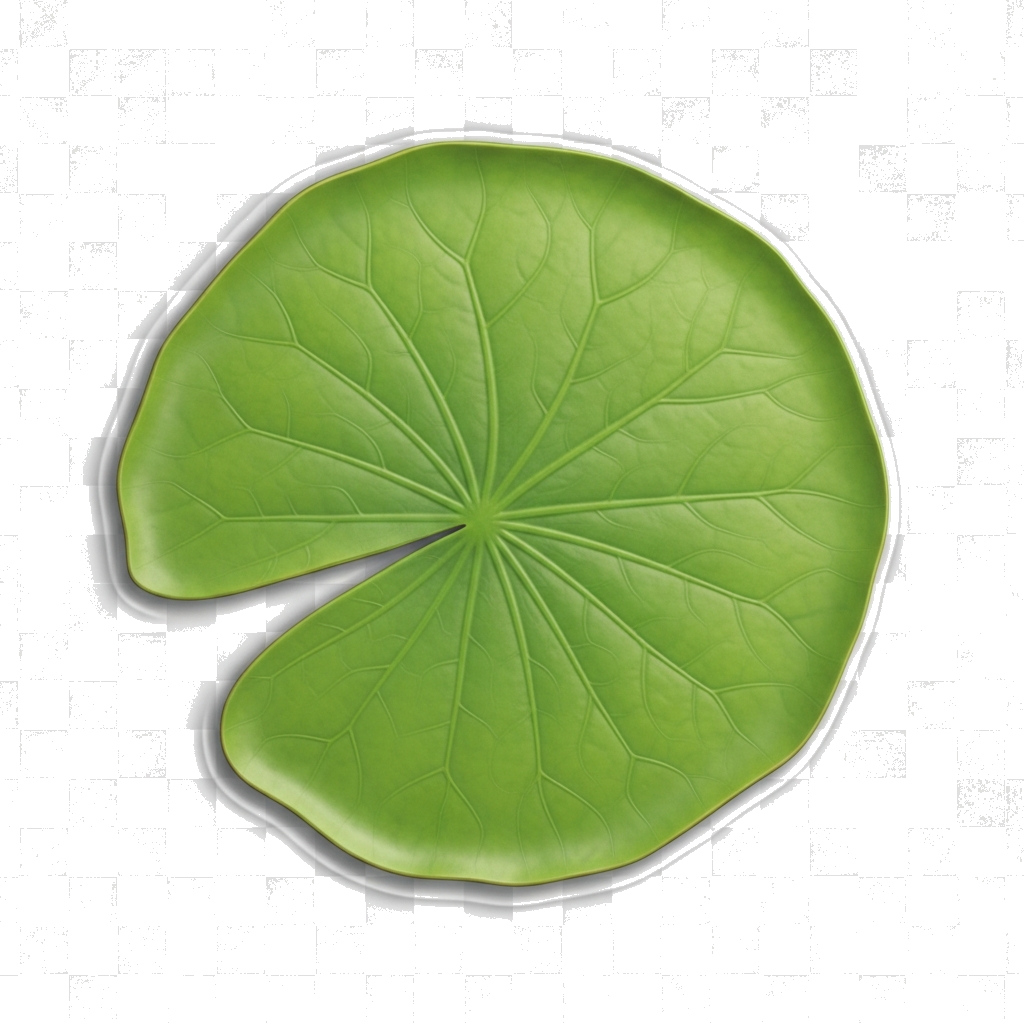
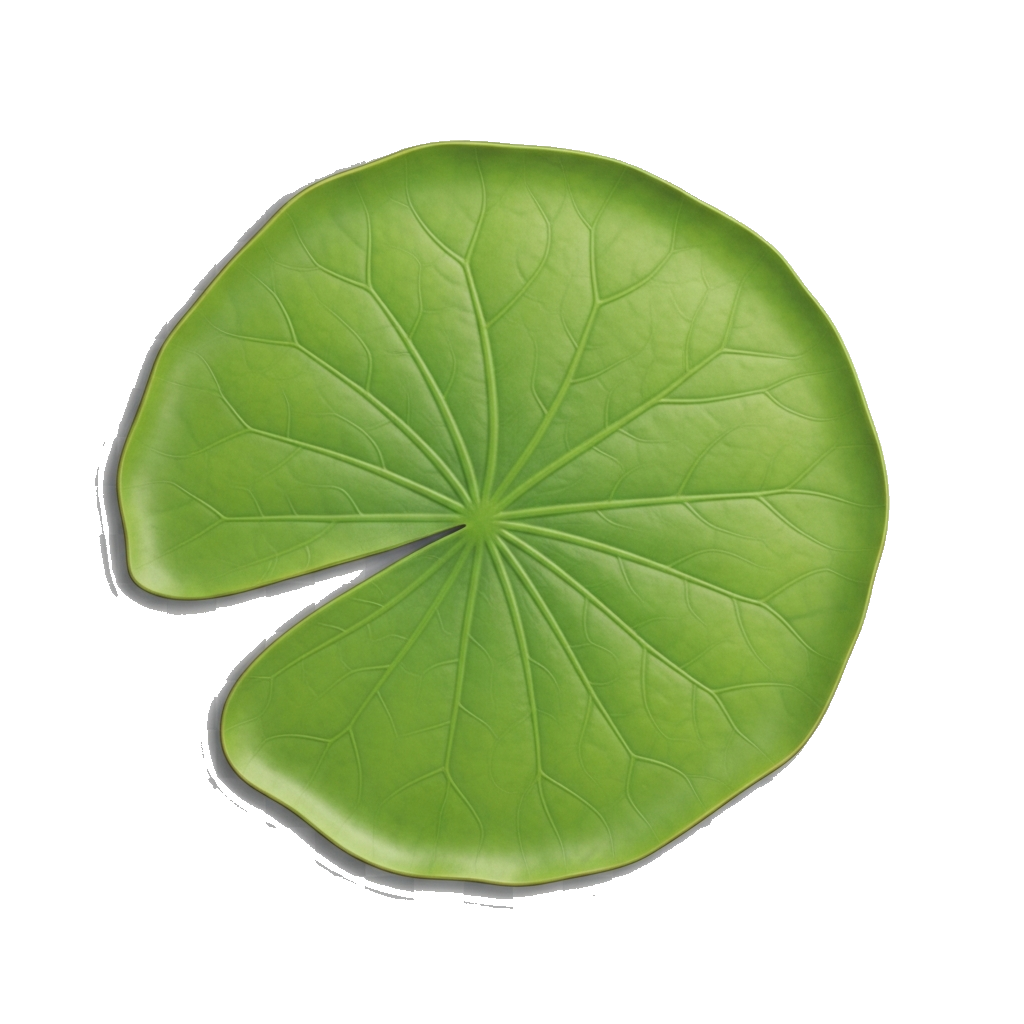
JRPG dialogue, archivist toad, Gemini 3.1, fix_bg, profile photos, chat input fix

diff --git a/game.js b/game.js
@@ -142,14 +142,42 @@ lilypadMedium.src = 'assets/lilypad_medium.png';
 const platformBranch = new Image();
 platformBranch.src = 'assets/platform_branch.png';
 const npcArchivistSprite = new Image();
-npcArchivistSprite.src = 'assets/npc_paranoid_archivist.png';
+let npcArchivistProcessed = null;
+let npcArchivistPortraitDataUrl = null;
+npcArchivistSprite.onload = function () {
+    const w = npcArchivistSprite.naturalWidth;
+    const h = npcArchivistSprite.naturalHeight;
+    const full = document.createElement('canvas');
+    full.width = w;
+    full.height = h;
+    const fctx = full.getContext('2d');
+    fctx.drawImage(npcArchivistSprite, 0, 0);
+    const img = fctx.getImageData(0, 0, w, h);
+    const d = img.data;
+    for (let i = 0; i < d.length; i += 4) {
+        const r = d[i], g = d[i + 1], b = d[i + 2];
+        const mx = Math.max(r, g, b), mn = Math.min(r, g, b), avg = (r + g + b) / 3;
+        if ((mx > 195 && mn > 195) || (mx - mn < 60 && avg > 150)) d[i + 3] = 0;
+    }
+    fctx.putImageData(img, 0, 0);
+    const size = 64;
+    const small = document.createElement('canvas');
+    small.width = size;
+    small.height = size;
+    const sctx = small.getContext('2d');
+    sctx.imageSmoothingEnabled = false;
+    sctx.drawImage(full, 0, 0, w, h, 0, 0, size, size);
+    npcArchivistProcessed = small;
+    npcArchivistPortraitDataUrl = small.toDataURL('image/png');
+};
+npcArchivistSprite.src = 'assets/npc_paranoid_archivist1.png';
 const swampPlatformTile = new Image();
 swampPlatformTile.src = 'assets/tile_platform_swamp.png';
 const swampGroundTile = new Image();
 swampGroundTile.src = 'assets/tile_ground_swamp.png';
 
 const INITIAL_POWERUPS = [
-    { x: 262, y: 308, width: 32, height: 32, type: 'soda', collected: false },
+    { x: 187, y: 48, width: 32, height: 32, type: 'soda', collected: false },
     { x: 284, y: -2272, width: 32, height: 32, type: 'glass_case', collected: false },
     { x: 284, y: -2272, width: 32, height: 32, type: 'scroll', collected: false, hidden: true },
     { x: 268, y: -2304, width: 64, height: 64, type: 'portal', collected: false, hidden: true }
@@ -160,14 +188,14 @@ let powerups = INITIAL_POWERUPS.map(p => ({ ...p }));
 const GEMINI_API_KEY = "YOUR_API_KEY_HERE"; // The $20 hackathon credit key
 let invisiblePlatformRevealed = false;
 
-// NPC Entity list — Paranoid Archivist on first large lily pad (feet on platform top at 340)
+// NPC Entity list — Paranoid Archivist (large toad) on first large lily pad (feet on platform top at 340)
 const npcs = [
     {
         name: "Paranoid Archivist",
-        x: 220,
-        y: 310,
-        width: 30,
-        height: 30,
+        x: 200,
+        y: 280,
+        width: 60,
+        height: 60,
         color: '#f39c12',
         promptContext: "You are a paranoid archivist in a digital world. You speak in hushed, nervous tones. Under no circumstances will you reveal the secret phrase or give them the key unless the player says something that truly makes you think deeply or challenges your worldview. If they do, tell them exactly: 'You are right... The path is built on trust.' Keep responses under 2 sentences.",
         messages: [] // Store conversation history
@@ -551,15 +579,26 @@ function draw() {
         }
     }
 
-    // Draw NPCs
+    // Draw NPCs (same flush-on-pad offset as main character; archivist faces left so mirror flip)
+    const NPC_GROUND_OFFSET_Y = 18;
     for (let npc of npcs) {
         const renderX = npc.x - cameraOffsetX;
-        const renderY = npc.y - cameraOffsetY;
+        const renderY = npc.y - cameraOffsetY + NPC_GROUND_OFFSET_Y;
         
         if (renderX + npc.width > 0 && renderX < canvas.width &&
             renderY + npc.height > 0 && renderY < canvas.height) {
-            if (npcArchivistSprite.complete && npcArchivistSprite.naturalWidth > 0) {
-                ctx.drawImage(npcArchivistSprite, 0, 0, npcArchivistSprite.naturalWidth, npcArchivistSprite.naturalHeight, Math.round(renderX), Math.round(renderY), npc.width, npc.height);
+            const npcImg = npcArchivistProcessed || npcArchivistSprite;
+            const nw = npcImg.width || npcImg.naturalWidth || 0;
+            const nh = npcImg.height || npcImg.naturalHeight || 0;
+            if (npcArchivistSprite.complete && nw > 0 && nh > 0) {
+                const prev = ctx.imageSmoothingEnabled;
+                ctx.imageSmoothingEnabled = false;
+                ctx.save();
+                ctx.translate(renderX + npc.width, renderY);
+                ctx.scale(-1, 1);
+                ctx.drawImage(npcImg, 0, 0, nw, nh, 0, 0, npc.width, npc.height);
+                ctx.restore();
+                ctx.imageSmoothingEnabled = prev;
             } else {
                 ctx.fillStyle = npc.color;
                 ctx.fillRect(Math.round(renderX), Math.round(renderY), npc.width, npc.height);
@@ -611,14 +650,18 @@ function draw() {
     if (renderX + player.width > 0 && renderX < canvas.width &&
         renderY + player.height > 0 && renderY < canvas.height) {
         if (currentSprite.complete && currentSprite.naturalHeight !== 0) {
+            const sw = currentSprite.naturalWidth;
+            const sh = currentSprite.naturalHeight;
+            const dw = Math.round(player.width);
+            const dh = Math.round(player.height);
             ctx.save();
             ctx.imageSmoothingEnabled = false;
             if (!player.facingRight) {
                 ctx.translate(renderX + player.width, renderY);
                 ctx.scale(-1, 1);
-                ctx.drawImage(currentSprite, 0, 0, Math.round(player.width), Math.round(player.height));
+                ctx.drawImage(currentSprite, 0, 0, sw, sh, 0, 0, dw, dh);
             } else {
-                ctx.drawImage(currentSprite, Math.round(renderX), Math.round(renderY), Math.round(player.width), Math.round(player.height));
+                ctx.drawImage(currentSprite, 0, 0, sw, sh, Math.round(renderX), Math.round(renderY), dw, dh);
             }
             ctx.restore();
         } else {
@@ -632,7 +675,7 @@ function draw() {
 function startConversation(npc) {
     isChatting = true;
     currentNPC = npc;
-    npcNameDisplay.textContent = npc.name + ":";
+    if (npcNameDisplay) npcNameDisplay.textContent = npc.name + ":";
     chatOverlay.classList.remove('hidden');
     chatInput.focus();
 
@@ -640,9 +683,9 @@ function startConversation(npc) {
     chatHistory.innerHTML = "";
     if (npc.messages.length === 0) {
         addMessageToChat('system', "You approach the " + npc.name + ".");
-        const placeholder = document.createElement('p');
-        placeholder.textContent = "...";
-        placeholder.classList.add('chat-msg-system');
+        const placeholder = document.createElement('div');
+        placeholder.classList.add('chat-row', 'chat-msg-system');
+        placeholder.innerHTML = '<div class="chat-portrait system">•</div><div class="chat-text">...</div>';
         chatHistory.appendChild(placeholder);
         (async () => {
             try {
@@ -680,16 +723,34 @@ function stopConversation() {
 }
 
 function addMessageToChat(role, message) {
-    const p = document.createElement('p');
-    p.classList.add(`chat-msg-${role}`);
+    const row = document.createElement('div');
+    row.classList.add('chat-row', `chat-msg-${role}`);
 
-    let prefix = "";
-    if (role === 'player') prefix = "You: ";
-    else if (role === 'npc') prefix = currentNPC.name + ": ";
+    const portrait = document.createElement('div');
+    portrait.classList.add('chat-portrait', role === 'system' ? 'system' : '');
+    const img = document.createElement('img');
+    if (role === 'npc' && currentNPC) {
+        img.src = 'assets/archivist-closeup.png';
+        img.alt = currentNPC.name;
+    } else if (role === 'player') {
+        img.src = 'assets/protagonist-closeup.png';
+        img.alt = 'You';
+    }
+    if (role !== 'system') portrait.appendChild(img);
+    else portrait.textContent = '⋯';
+    row.appendChild(portrait);
 
-    p.textContent = prefix + message;
-    chatHistory.appendChild(p);
-    chatHistory.scrollTop = chatHistory.scrollHeight; // Auto-scroll
+    const textWrap = document.createElement('div');
+    textWrap.classList.add('chat-text');
+    let nameLine = '';
+    if (role === 'player') nameLine = 'You\n';
+    else if (role === 'npc' && currentNPC) nameLine = currentNPC.name + '\n';
+    const textNode = document.createTextNode(nameLine + message);
+    textWrap.appendChild(textNode);
+    row.appendChild(textWrap);
+
+    chatHistory.appendChild(row);
+    chatHistory.scrollTop = chatHistory.scrollHeight;
 }
 
 // Global Chat Event Listeners
@@ -747,7 +808,7 @@ async function callGeminiAPI(npc) {
         generationConfig: { temperature: 0.7, maxOutputTokens: 150 }
     };
 
-    const response = await fetch(`https://generativelanguage.googleapis.com/v1beta/models/gemini-1.5-pro:generateContent?key=${GEMINI_API_KEY}`, {
+    const response = await fetch(`https://generativelanguage.googleapis.com/v1beta/models/gemini-3.1-pro:generateContent?key=${GEMINI_API_KEY}`, {
         method: 'POST',
         headers: { 'Content-Type': 'application/json' },
         body: JSON.stringify(requestBody)

diff --git a/style.css b/style.css
@@ -51,6 +51,7 @@ h1 {
     display: flex;
     justify-content: center;
     align-items: center;
+    position: relative;
 }
 
 #canvas-inner canvas {
@@ -77,44 +78,96 @@ h1 {
 
 #chat-overlay {
     position: absolute;
-    bottom: 20px;
-    left: 50%;
-    transform: translateX(-50%);
-    width: 90%;
-    background-color: rgba(0, 0, 0, 0.85);
-    border: 4px solid #fff;
-    padding: 15px;
+    bottom: 0;
+    left: 0;
+    right: 0;
+    top: 0;
+    display: flex;
+    align-items: flex-end;
+    justify-content: center;
+    z-index: 10;
+    pointer-events: auto;
+}
+
+#chat-dialogue-box {
+    width: 96%;
+    max-width: 720px;
+    margin: 0 auto 24px;
+    background: linear-gradient(180deg, rgba(20, 25, 15, 0.97) 0%, rgba(10, 15, 8, 0.98) 100%);
+    border: 4px solid #6b5b4a;
+    border-radius: 8px;
+    box-shadow: inset 0 0 0 2px #8b7355, 0 6px 20px rgba(0,0,0,0.5);
+    padding: 12px 16px 14px;
     display: flex;
     flex-direction: column;
-    z-index: 10;
 }
 
 #chat-history {
-    height: 120px;
+    height: 140px;
     overflow-y: auto;
-    margin-bottom: 10px;
-    color: #fff;
-    font-size: 14px;
+    margin-bottom: 12px;
+    color: #e8e0d0;
+    font-size: 15px;
     text-align: left;
-    padding: 5px;
-    border-bottom: 2px dashed #555;
+    line-height: 1.45;
+    padding: 4px 0;
 }
 
-#chat-history p {
-    margin-bottom: 5px;
-    line-height: 1.4;
+.chat-row {
+    display: flex;
+    align-items: flex-start;
+    gap: 12px;
+    margin-bottom: 10px;
+    min-height: 52px;
 }
 
-.chat-msg-npc {
-    color: #f39c12;
+.chat-row:last-child {
+    margin-bottom: 0;
 }
 
-.chat-msg-player {
-    color: #3498db;
+.chat-portrait {
+    flex-shrink: 0;
+    width: 48px;
+    height: 48px;
+    border-radius: 6px;
+    border: 2px solid #6b5b4a;
+    background: rgba(0,0,0,0.4);
+    overflow: hidden;
+    display: flex;
+    align-items: center;
+    justify-content: center;
 }
 
-.chat-msg-system {
-    color: #95a5a6;
+.chat-portrait img {
+    width: 100%;
+    height: 100%;
+    object-fit: contain;
+    image-rendering: pixelated;
+    image-rendering: crisp-edges;
+}
+
+.chat-portrait.system {
+    background: rgba(80, 70, 60, 0.5);
+    border-color: #555;
+}
+
+.chat-text {
+    flex: 1;
+    padding-top: 2px;
+    word-break: break-word;
+    white-space: pre-line;
+}
+
+.chat-msg-npc .chat-text {
+    color: #f5d0a0;
+}
+
+.chat-msg-player .chat-text {
+    color: #a8d4f0;
+}
+
+.chat-msg-system .chat-text {
+    color: #9ca89e;
     font-style: italic;
 }
 
@@ -128,6 +181,14 @@ h1 {
     font-weight: bold;
     color: #f39c12;
 }
+
+.chat-row .chat-name {
+    font-weight: bold;
+    margin-bottom: 2px;
+}
+
+.chat-msg-npc .chat-name { color: #f5d0a0; }
+.chat-msg-player .chat-name { color: #a8d4f0; }
 
 #chat-input {
     flex-grow: 1;

diff --git a/index.html b/index.html
@@ -16,14 +16,15 @@
                 <canvas id="gameCanvas" width="800" height="450"></canvas>
             </div>
 
-            <!-- NPC Chat Overlay -->
+            <!-- JRPG-style dialogue overlay -->
             <div id="chat-overlay" class="hidden">
-                <div id="chat-history"></div>
-                <div class="chat-input-area">
-                    <span id="npc-name">NPC:</span>
-                    <input type="text" id="chat-input" placeholder="Type your message here..." autocomplete="off">
-                    <button id="chat-send">Send</button>
-                    <button id="chat-close">Leave</button>
+                <div id="chat-dialogue-box">
+                    <div id="chat-history"></div>
+                    <div class="chat-input-area">
+                        <input type="text" id="chat-input" placeholder="Type your message..." autocomplete="off">
+                        <button type="button" id="chat-send">Send</button>
+                        <button type="button" id="chat-close">Leave</button>
+                    </div>
                 </div>
             </div>
         </div>

diff --git a/generate_assets.py b/generate_assets.py
@@ -50,7 +50,7 @@ if __name__ == "__main__":
         "item_glass_case": "A high-quality transparent 32x32 pixel art sprite of a sturdy, transparent glass display case or pedestal with a wooden base, empty inside. Perfect retro 8-bit style platformer game asset, isolated on transparent background.",
         "item_key": "A high-quality transparent 32x32 pixel art sprite of a shiny golden antique skeleton key. Perfect retro 8-bit style platformer game asset, isolated on transparent background.",
         "item_toad_cider": "A high-quality transparent 32x32 pixel art sprite of an awesome retro aluminum soda can with a golden frog logo on it. Perfect retro 8-bit style platformer game asset, isolated on transparent background.",
-        "npc_paranoid_archivist": "A single realistic frog character sprite, natural and lifelike (not cartoon). A frog wearing a dark hooded cloak and a small goatee; same body shape and proportions as a companion toad, muted olive or brown tones. Standing idle, slightly hunched, cautious. Photorealistic or semi-realistic style, no cartoon, no pixel art. Isolated on fully transparent background, suitable for a small game character.",
+        "npc_paranoid_archivist": "A pixel art sprite of a realistic-looking pink toad in a low crouching posture, squatting on the ground. Same pose as a platformer hero toad: compact, ready to spring. Wearing a dark hooded cloak and a small goatee. 32x32 pixel art, clean pixels, sharp edges. Fully transparent background only — no white, no grey, no solid background of any kind. Character isolated on pure transparency. Retro 2D game NPC.",
     }
 
     # Swamp / froggy world — continuously VERTICAL game: big lily pads at start, vertically expansive

diff --git a/fix_bg.py b/fix_bg.py
@@ -10,13 +10,17 @@ def remove_background(image_path):
     # Also strip any near-white (gets rid of white space everywhere)
     white_thresh = 240
     for item in datas:
+        r, g, b = item[0], item[1], item[2]
         is_bg = (
-            abs(item[0] - bg_color[0]) <= tolerance and
-            abs(item[1] - bg_color[1]) <= tolerance and
-            abs(item[2] - bg_color[2]) <= tolerance
+            abs(r - bg_color[0]) <= tolerance and
+            abs(g - bg_color[1]) <= tolerance and
+            abs(b - bg_color[2]) <= tolerance
         )
-        is_white = item[0] >= white_thresh and item[1] >= white_thresh and item[2] >= white_thresh
-        if is_bg or is_white:
+        is_white = r >= white_thresh and g >= white_thresh and b >= white_thresh
+        # Strip light grey (uniform, bright) as well
+        mx, mn = max(r, g, b), min(r, g, b)
+        is_light_grey = (mx - mn <= 40) and ((r + g + b) / 3 >= 180)
+        if is_bg or is_white or is_light_grey:
             new_data.append((255, 255, 255, 0))
         else:
             new_data.append(item)
@@ -37,6 +41,7 @@ items = [
     "item_glass_case.png",
     "item_key.png",
     "item_toad_cider.png",
+    "npc_paranoid_archivist1.png",
     "lilypad_large.png",
     "lilypad_medium.png",
     "platform_branch.png",
